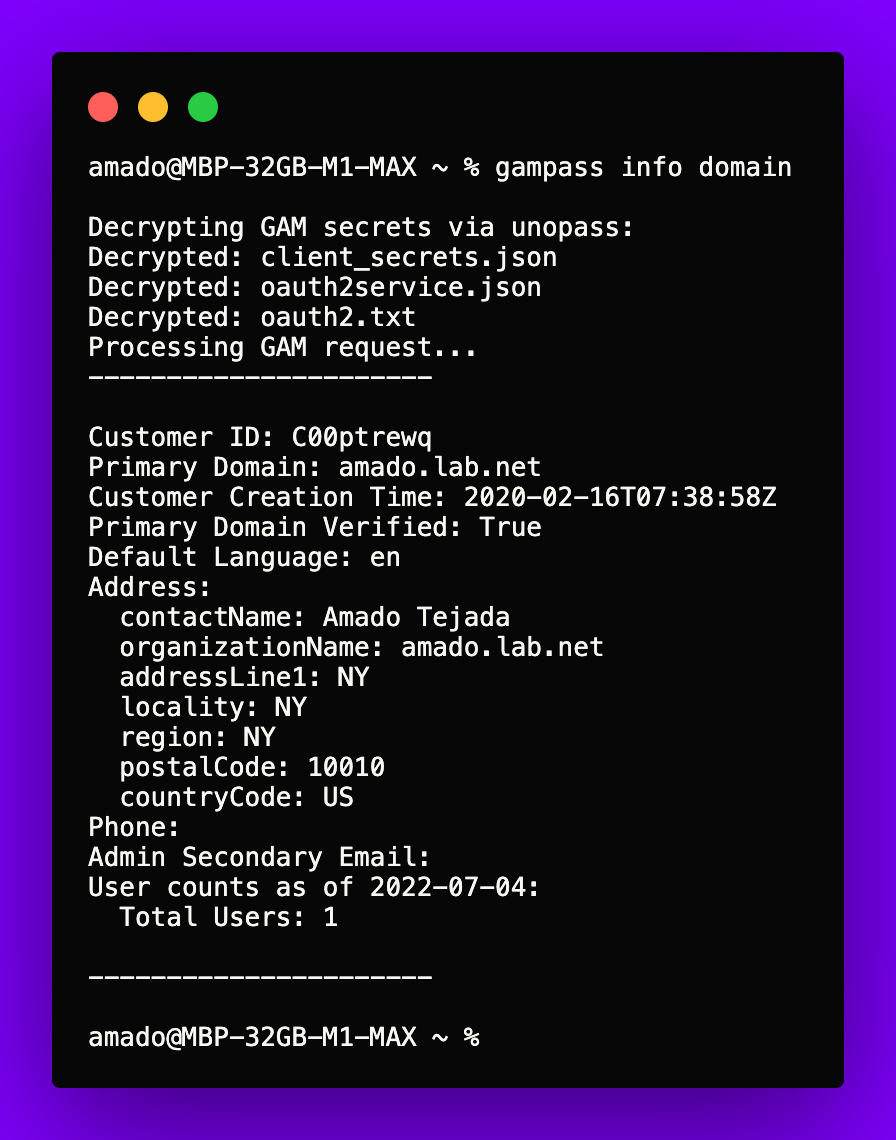
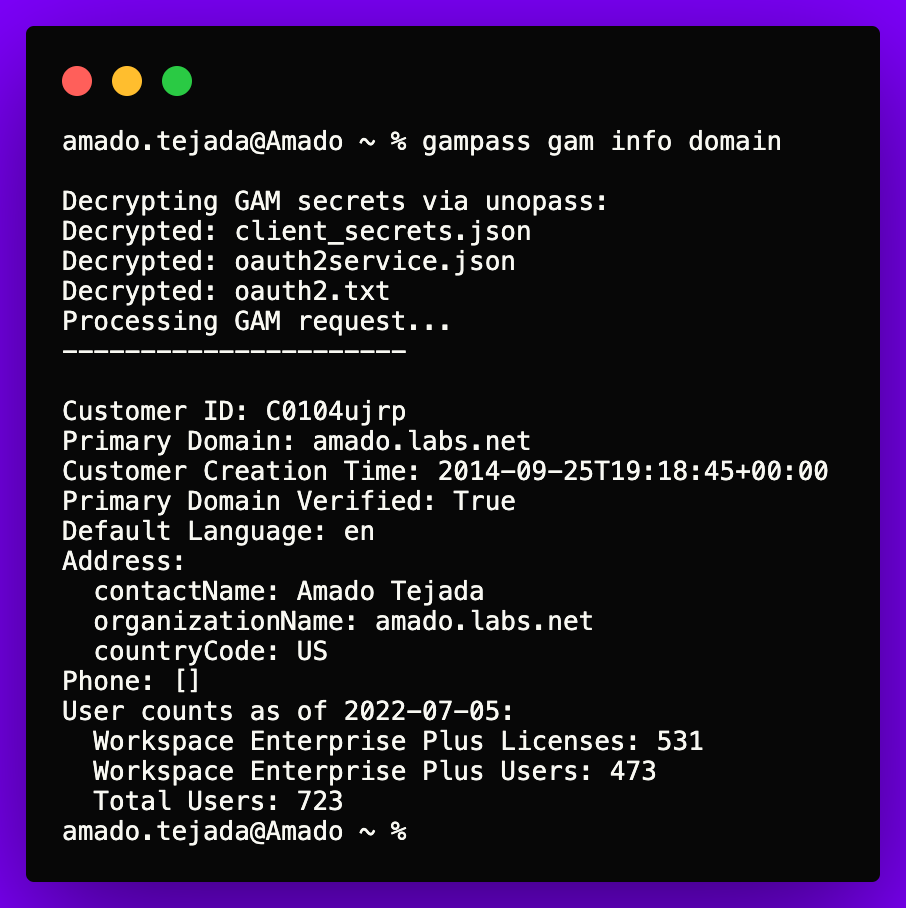
encrypt subshell

Changed region(s): [[0.0, 0.0308, 1.0, 1.0], [0.7188, 0.8018, 0.7812, 0.8326], [0.5, 0.8943, 0.5312, 0.9251]]

diff --git a/gampass.py b/gampass.py
@@ -1,6 +1,7 @@
 import os
 import sys
 from pathlib import Path
+import subprocess
 
 from cryptography.fernet import Fernet
 from unopass import unopass as secret
@@ -15,9 +16,25 @@ secrets = ["client_secrets.json", "oauth2service.json", "oauth2.txt"]
 def add_alias() -> None:
     """
     Adds gampass as an alias to the user's `.zshrc` file & sources the file
+    If you don't use zsh, you can change the `.zshrc` file to your liking
     """
-    alias = f"alias gampass='f(){{ python {script_path} decrypt && gam \"\$@\" ; python {script_path} encrypt;  unset -f f; }}; f'"
-    os.system(f'echo "{alias}" >> {home}/.zshrc')
+    subprocess.Popen("""
+    cat << EOF >> %s/.zshrc
+
+alias gampass='python %s decrypt && gampass_encrypt &!'
+gampass_encrypt()
+{
+while true; do
+    if [[ \"\$(pgrep -x gam)\" ]]; then
+        sleep 1
+    else
+        python /Users/amado.tejada/.gam/gampass.py encrypt
+        break
+    fi
+done
+}
+    """ % (home, script_path), shell=True)
+
     os.system(f"source {home}/.zshrc > /dev/null 2>&1")
 
 

diff --git a/README.md b/README.md
@@ -26,7 +26,7 @@ Only tested on macOS 12.4+
 
 <img src="./screenshots/generate.png" width="80%">
 
-3. Open 1Password
+4. Open 1Password
     - create a vault named `gampass`
     - add a new PASSWORD item with the title `gam`
     - add the content of the `gampass.key` the `credential` field
@@ -34,16 +34,28 @@ Only tested on macOS 12.4+
 <img src="./screenshots/1pass.png" width="100%">
 
 ## Usage
-Instead of using the `gam` command, use `gampass`
+Put `gampass` before the gam command
+
+`gampass [gam] [gam args]`
 
 ```bash
-gampass info domain
+gampass gam info domain
 ```
 <img src="./screenshots/terminal.png" width="65%">
 
-macOS Touch ID will prompt for your biometrics.
+macOS Touch ID prompts for your biometrics decrypting the secrets
 
 <img src="./screenshots/results.png" width="50%">
+
+GAM results. GAMpass encrypts the secrets with the latest key automatically in the background.
+
+## Limitations
+Eveyrything that works with GAM will work with *GAMpass*, except for the following:
+- Multi-domain support via gam `select` does not work becase gampass currently only encrypts one set of secrets. 
+    -   This will be fixed in the future.
+
+- Scheduled jobs via cron, etc do not work because Biometrics is prompted to decrypt the secrets.
+    -   By design
 
 ## gampass.py options
 ```bash
